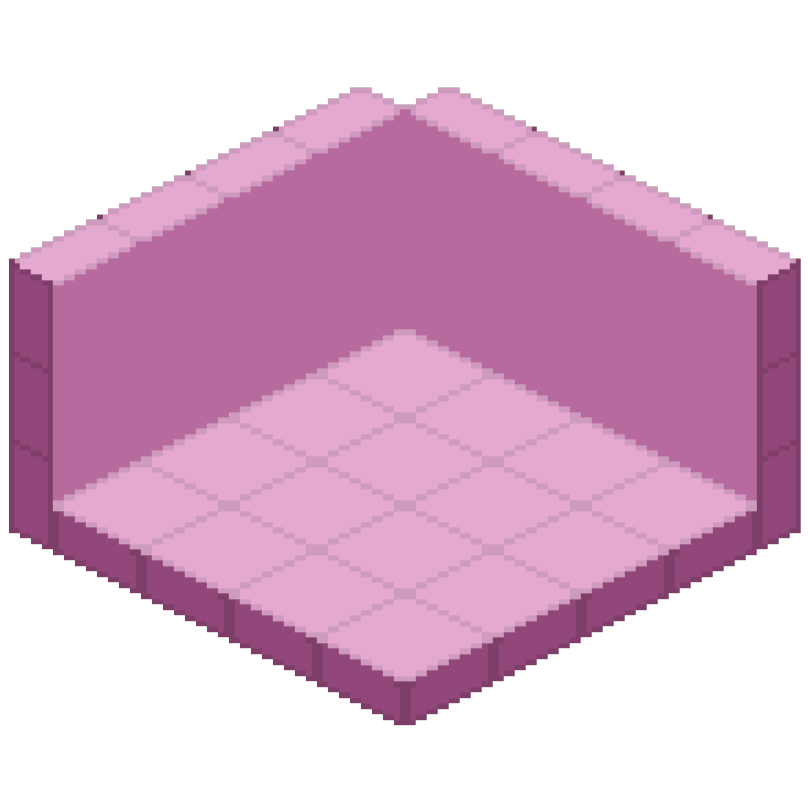
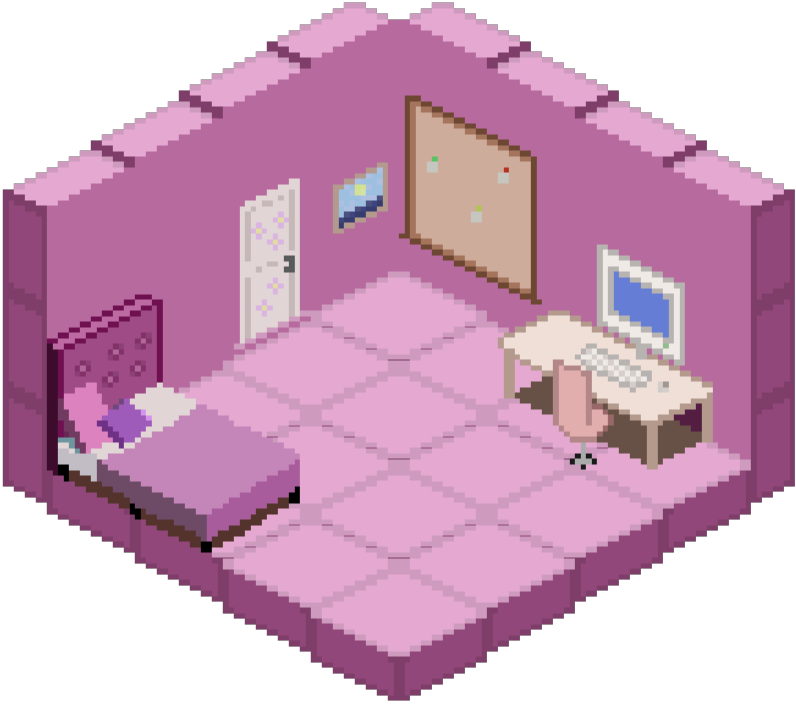
refactor: Ajustes en los componentes de la pantalla del PC
Se eliminó la imagen de fondo de los componentes de la pantalla del PC y se realizaron ajustes menores para mejorar la presentación visual. Esto forma parte de la reestructuración general del portfolio.

diff --git a/src/components/PcScreen/PcScreen.jsx b/src/components/PcScreen/PcScreen.jsx
@@ -1,81 +1,47 @@
-import React, { useEffect } from 'react';
+import React from 'react';
 import './PcScreen.css';
 
-const PcScreen = () => {
-  // useEffect se ejecuta cuando el componente se monta y se limpia cuando se desmonta
-  useEffect(() => {
-    // Función que maneja los clics en los iconos
-    const handleIconClick = (event) => {
-      // Obtiene el ID de la ventana del atributo data-window-id del icono clicado
-      const windowId = event.target.dataset.windowId;
-      if (windowId) {
-        // Crea un evento personalizado con el ID de la ventana como detalle
-        const toggleEvent = new CustomEvent('toggleWindow', { detail: windowId });
-        // Despacha el evento al objeto window
-        window.dispatchEvent(toggleEvent);
-      }
-    };
-
-    // Agrega el manejador de clics a todos los elementos con la clase 'screen-icon'
-    document.querySelectorAll('.screen-icon').forEach(icon => {
-      icon.addEventListener('click', handleIconClick);
-    });
-
-    // Función de limpieza que elimina el manejador de clics cuando el componente se desmonta
-    return () => {
-      document.querySelectorAll('.screen-icon').forEach(icon => {
-        icon.removeEventListener('click', handleIconClick);
-      });
-    };
-  }, []); // El array vacío asegura que el useEffect se ejecute solo una vez, al montar el componente
-
-  return (
-    <div className="pc-screen-content">
-      <img 
-        src="src/objetos-img/archivospc/aboutme.png"
-        alt="Información sobre mí"
-        className="screen-icon"
-        data-window-id="aboutMeWindow" // Asegúrate que el data-window-id coincide con el id del div correspondiente
-      />
-      <img 
-        src="src/objetos-img/archivospc/aboutme.png"
-        alt="Mis Proyectos"
-        className="screen-icon"
-        data-window-id="projectsWindow" 
-      />
-      <img 
-        src="src/objetos-img/archivospc/aboutme.png"
-        alt="Contacto"
-        className="screen-icon"
-        data-window-id="contactWindow" 
-      />
-      <div className="power-button"></div>
-      <div className="taskbar">
-        <div className="taskbar-left">
-          <button className="start-button">Inicio</button>
+/**
+ * @param {{ onNavigate: (section: string) => void }} props
+ */
+const PcScreen = ({ onNavigate }) => {
+    return (
+        <div className="pc-screen-content">
+            <button 
+                className="screen-icon"
+                onClick={() => onNavigate('aboutme')}
+            >
+                <img 
+                    src="src/objetos-img/archivospc/aboutme.png"
+                    alt="Información sobre mí"
+                />
+            </button>
+            <button 
+                className="screen-icon"
+                onClick={() => onNavigate('projects')}
+            >
+                <img 
+                    src="src/objetos-img/archivospc/aboutme.png"
+                    alt="Mis Proyectos"
+                />
+            </button>
+            <button 
+                className="screen-icon"
+                onClick={() => onNavigate('contact')}
+            >
+                <img 
+                    src="src/objetos-img/archivospc/aboutme.png"
+                    alt="Contacto"
+                />
+            </button>
+            <div className="power-button"></div>
+            <div className="taskbar">
+                <div className="taskbar-left">
+                    <button className="start-button">Inicio</button>
+                </div>
+            </div>
         </div>
-      </div>
-    </div>
-  );
+    );
 };
 
 export default PcScreen;
-
-
-
-
-
-
-
-
-
-
-
-
-
-
-
-
-
-
-

diff --git a/src/components/pcComponent/PcComponent.jsx b/src/components/pcComponent/PcComponent.jsx
@@ -1,44 +1,21 @@
-import React, { useState } from 'react';
+import React from 'react';
 import './PcComponent.css';
 import PcScreen from '../PcScreen/PcScreen.jsx';
 
-const PcComponent = () => {
-  const [showScreen, setShowScreen] = useState(false);
-
-  const handlePcClick = () => {
-    setShowScreen(true);
-  };
-
-  const handleCloseScreen = () => {
-    setShowScreen(false);
-  };
-
-  return (
-    <>
-      <img 
-        src="/src/objetos-img/pc.png" 
-        alt="pc" 
-        className="map-object" 
-        id="pc" 
-        onClick={handlePcClick} 
-        
-      />
-      {showScreen && (
-        <div className={`screen-overlay ${showScreen ? 'show' : ''}`} onClick={handleCloseScreen}>
-          <div className="screen-content" onClick={(e) => e.stopPropagation()}>
-            <PcScreen /> 
-            <button className="close-button" onClick={handleCloseScreen}>Cerrar</button>
-          </div>
+/**
+ * Componente para mostrar la PC con pantalla y cerrar.
+ * @param {{onClose: () => void, onNavigate: (section: string) => void}} props
+ */
+const PcComponent = ({ onClose, onNavigate }) => {
+    return (
+        <div className="screen-overlay show" onClick={onClose}>
+            <div className="screen-content" onClick={e => e.stopPropagation()}>
+                {/* Pasamos onNavigate a PcScreen */}
+                <PcScreen onNavigate={onNavigate} /> 
+                <button className="close-button" onClick={onClose}>Cerrar</button>
+            </div>
         </div>
-      )}
-    </>
-  );
+    );
 };
 
 export default PcComponent;
-
-
-
-
-
-
